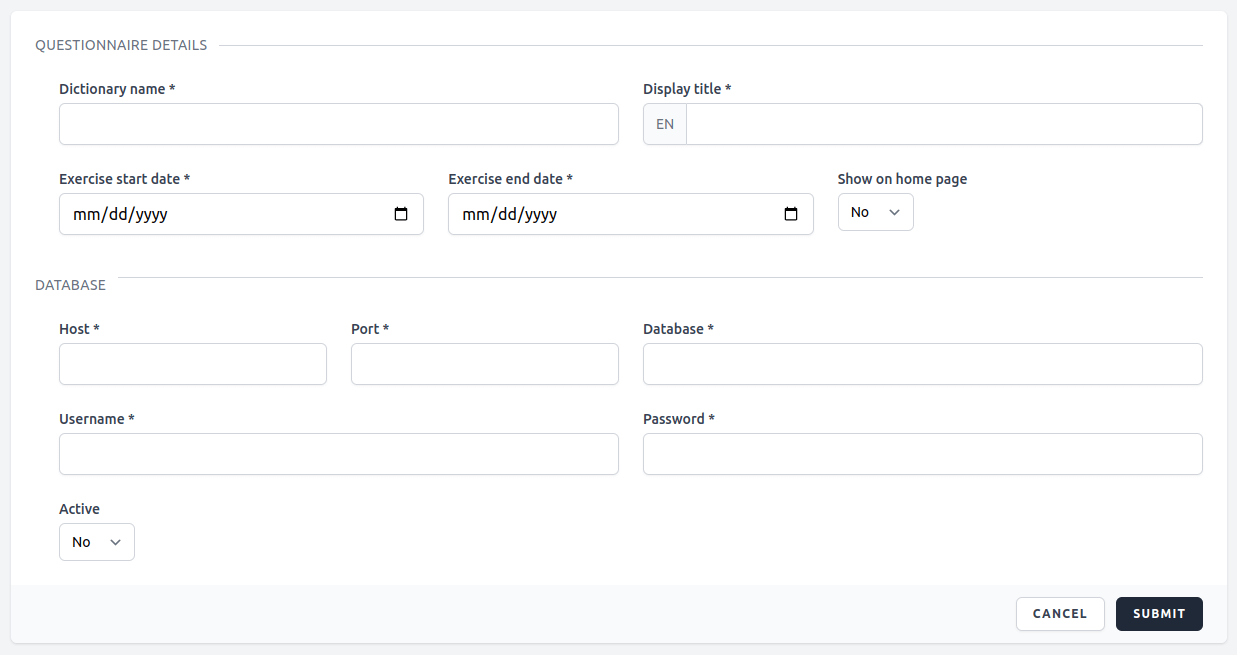
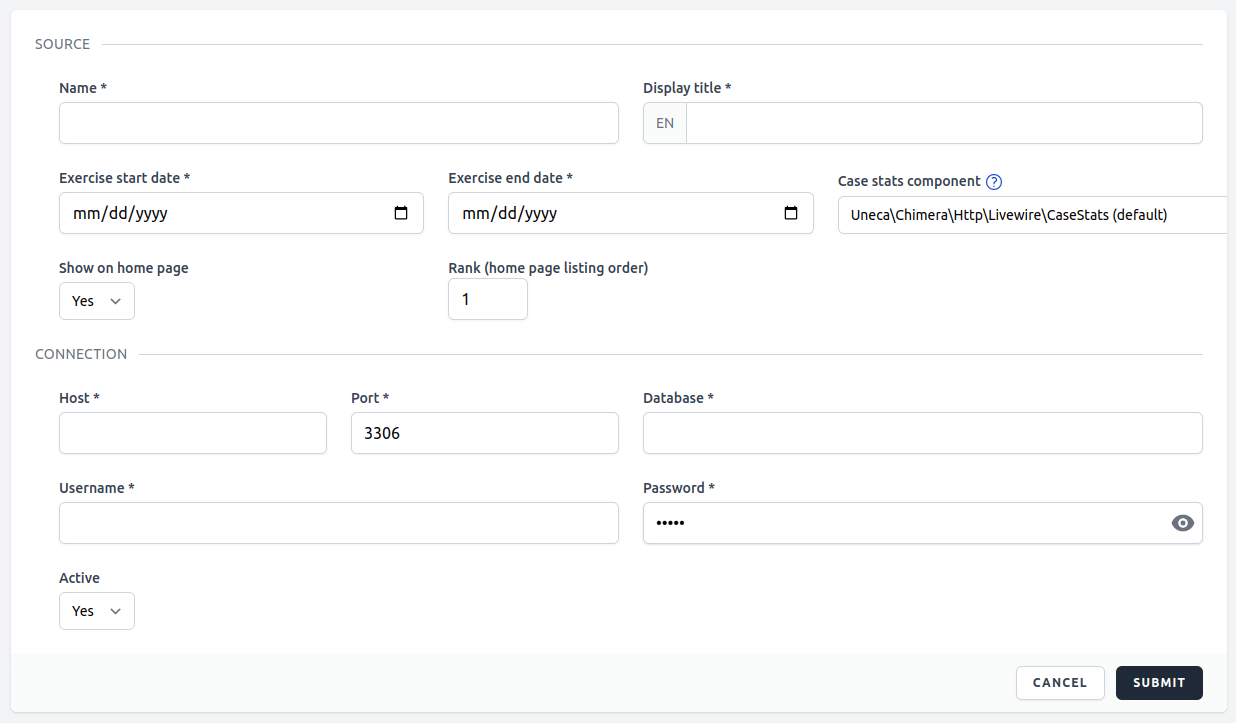
Updated to match 2.7.1

diff --git a/docs/developer/Building your dashboard/Overriding case stats.md b/docs/developer/Building your dashboard/Overriding case stats.md
@@ -4,36 +4,14 @@ slug: ../building-your-dashboard/overriding-case-stats
 ---
 
 # Overriding case stats
-Scorecards are meant to display very high level data that pertains to either an important indicator or a performance metric. They are helpful to management in decision making and problem solving.
+CaseStats are high level statistics about the number and type of cases/responses you have in your database. They can be classified as *completed, partial and duplicate*.
 
-## Make scorecard command
-The one and only way to create scorecards is by running the `chimera:make-scorecard` command.
+This classification is bound up with how responses are stored in CSPro and might not necessarily be the way you want to summarize the responses in your database. 
 
-Scorecards usually display just two things: title and value but can also include a delta display (to show percentage of change from a reference value) and a link button to jump to an indicator, if it exists.
+You can override this default, CSPro based, implementation and provide your own kind of CaseStats. To do so, just create a new Livewire component and make sure you include the words CaseStats in the name.
 
-![Scorecards](/img/developer/building-your-dashboard/scorecards.png)
+You then need to extend the existing CaseStats class and then override either just the getData() method, where you can implement your own counting strategy or also override the render() method to also provide your own blade view to render.
 
-## Implementing scorecards
-Obviously, you will have to write some code in your generated scorecard file so that it distils and returns a value you intend.
+Once you have implemented your new CaseStats component, it should become available for selection under the Source edit form for each source/questionnaire.
 
-You have a high degree of freedom on how you choose to code your scorecard as long as, at the end, you set the appropriate public class properties with their desired values.
-
-- $this->title
-
-    title is by default inherited from what you had provided when you created the scorecard. You can also edit this from the management menu.
-
-- $this->bgColor
-
-    the scorecard background color is dictated by the currently chosen theme but you are free to override and set your own desired color using HTML color constants or hex color values.
-
-- $this->diff
-
-    by default, this is set to 0 but you can set it to any integer (signed) value to depict the delta between the main value and some reference value.
-
-- $this->unit
-
-    by default, this is set to % and is shown as a unit for your delta (diff). You can override it to be any other unit or you can also set it to be an empty string.
-
-- $this->value
-
-    by default, this is set to the string value 'NA' but you are expected to set it to the value you want displayed on the scorecard. You will probably have to run some database queries to calculate that value.
+When overriding either of these two methods, please make sure you return the results in the expected format. You can refer to the existing CaseStats component for that.

diff --git a/docs/developer/Advanced topics/Caching.md b/docs/developer/Advanced topics/Caching.md
@@ -12,10 +12,21 @@ Caching is not enabled by default and to enable it, you must set CACHE_ENABLED t
 Once caching is enabled, every published indicator, scorecard, case stat and map indicator will be cached for a set amount of time that is determined by the CACHE_TTL_SECONDS setting in your .env file. The default value of the caching time is **one hour**.
 
 You will most likely want to use your own caching strategy that is appropriate to your data size and other needs. You will therefore need to schedule tasks to update these caches regularly. This is achieved by using the ```chimera:cache``` group of commands. You can run them manually as such but you should schedule them using Laravel's scheduled tasks. Data cached using any of the cache commands does not expire. It is cached *"forever"* as cache replacement strategy is relinquished to the developer and should be achieved through a well thought out scheduling of the cache commands.
+
+For details, please refer to the [Task Scheduling](https://laravel.com/docs/9.x/scheduling#scheduling-artisan-commands) section of the Laravel documentation.
+
+```php
+$schedule->command('chimera:cache --questionnaire=enumeration')->everySixHours();
+```
+
+Basically, you add the above type of code to the schedule() method of your ```App\Console\Kernel``` class file for each of your cache commands.
+
+
 ```
 php artisan chimera:cache-indicators
 php artisan chimera:cache-scorecards
 php artisan chimera:cache-mapindicators
+php artisan chimera:cache-casestats
 ```
 
 ### chimera:cache-indicators
@@ -59,14 +70,12 @@ The command has two options which you can include to control how caching happens
 - *questionnaire* : this option can be used to update the cache of scorecards that belong to that specific questionnaire. By default, scorecards across all questionnaires will be updated
 
 
-As it is not practical to update the cache manually on the command line, you will need to schedule the chimera:cache artisan command.
-For details, please refer to the [Task Scheduling](https://laravel.com/docs/9.x/scheduling#scheduling-artisan-commands) section of the Laravel documentation.
+### chimera:casestats
 
-Basically, you add the following type of code to the schedule() method of your ```App\Console\Kernel``` class file
+The command has one option which you can include to control how caching happens
 
-```php
-$schedule->command('chimera:cache --questionnaire=enumeration')->everySixHours();
-```
+- *questionnaire* : this option can be used to update the cache of CaseStats that belong to that specific questionnaire. By default, casestats across all questionnaires will be updated
+
 
 ## Cache clearing
 

diff --git a/docs/developer/Building your dashboard/Folder structure.md b/docs/developer/Building your dashboard/Folder structure.md
@@ -12,11 +12,13 @@ To begin with, please read the [Directory Structure](https://laravel.com/docs/st
 While there are various directories, that help organize your application, we shall mainly be concerned with a few of them.
 These will be the directories where your generated dashboard files (such as indicators, etc.) will go into.
 
-- <span className='text--danger text--light'>app/Http/Livewire</span> is the directory where all your indicator files will be stored. Under it, you can have them organized into various thematic or questionnaire based sub-directories.
+- <span className='text--danger text--light'>app/Http/Livewire</span> is the directory where all your indicator and scorecard files will be stored. Under it, you can have them organized into various thematic or questionnaire based sub-directories (this is achieved by including folders in the names when using the various make commands).
 
 - <span className='text--danger text--light'>app/IndicatorTemplates</span> is where your installed indicator templates will live. When you download indicator templates from our template library, they are stored somewhere in the storage directory and are copied here only when you use them for one of your indicators.
 
 - <span className='text--danger text--light'>app/Mail</span> holds all the Mailable classes which you can modify to affect the emails sent by the dashboard. The corresponding mail templates are stored in <span className='text--danger text--light'>resources/views/mail</span>
+
+- <span className='text--danger text--light'>app/MapIndicators</span> holds all the MapIndicator classes that are generated by the chimera:make-map-indicator command.
 
 - <span className='text--danger text--light'>app/Reports</span> is the directory where all your report class files will be stored. Under it, you can have them organized into various thematic or questionnaire based sub-directories. The actual (csv/excel) report outputs are stored under the <span className='text--danger text--light'>storage</span> directory.
 

diff --git a/docs/developer/Building your dashboard/Core configuration.md b/docs/developer/Building your dashboard/Core configuration.md
@@ -64,6 +64,10 @@ You have the option of importing the data from two file formats:
 
     ![Importing areas from shapefile](/img/developer/building-your-dashboard/importing-area-hierarchy-from-shapefile.png)
 
+:::caution
+Please make sure that the shapefile you are attempting to import has the EPSG:4326 - WGS 84 Coordinate Reference System (CRS).
+:::
+
 - **Spreadsheets (.csv)**
 
     You can also import your areas via a csv file but here you will not have the maps and therefore can not have map based indicators in you dashboard.
@@ -105,9 +109,9 @@ Just follow the instructions in the Laravel Livewire documentation [here](https:
 
 What we generally refer to as reference values are concepts such as 'expected values' and 'target values'. These are used for comparing your actual data against so that you have some frame of reference to better understand the data/indicator your are viewing.
 
-To import reference values, you will need to have the data in an Excel or CSV file and it needs to be at the lowest area hierarchy level (usually EA).
+To import reference values, you will need to have the data in a CSV file and it needs to be at the lowest area hierarchy level (usually EA).
 
-The file needs to have at least two columns. One for the code of your lowest area hierarchy and another for the value of the reference value you are importing. It is common to have multiple columns, each named by the reference value they represent, in the same spreadsheet.
+The file needs to have at least two columns. One for path (can be generated using the formula provided on the top of the form) of your lowest area hierarchy and another for the value of the reference value you are importing. It is common to have multiple columns, each named by the reference value they represent, in the same spreadsheet.
 
 ![Sample reference values CSV file](/img/developer/building-your-dashboard/reference-value-spreadsheet.png)
 

diff --git a/docs/developer/Migration guides/update command.md b/docs/developer/Migration guides/update command.md
@@ -1,0 +1,36 @@
+---
+sidebar_position: 1
+slug: ../migration-guides/update-command
+---
+
+# The update command
+
+The update command greatly aids in updating the version of Dashboard Starter Kit you are running.
+
+```
+php artisan chimera:update [options]
+```
+
+It has the following options, which you might use depending on what is recommended in the release notes for each update.
+
+- *chimera-config* - will re-publish the chimera.php config file to the config directory
+- migrations - will re-publish any new database migrations that might have been added to the kit since installation
+- packages - will install any new composer packages that might have been added to the kit since installation
+- jetstream-modifications - will re-publish customized Laravel Jetstream views and actions
+- buildables - will re-publish resources (js, css, public images, tailwind.config.js and vite.config.js)
+- stubs - will re-publish stubs used in the various chimera:make commands
+- other-configs - will re-publish app, auth, and jetstream config files to the config directory
+- npm - will update the application's package.json with required npm packages
+
+In the example below, all js, css and image files will be published and this might be necessary if an update has modified any Javascript, CSS or added any new public image files.
+
+```
+php artisan chimera:update --buildables
+```
+
+:::caution
+Please be aware that when you re-publish previously published resources, changes you might have made to those resources after installation will likely be overwritten. 
+Under normal circumstances, you will likely not have modified any of these resources but be aware that this might happen.
+
+For example, the --buildables option would overwrite the hero image on the landing page, if you have already replaced it with some other image.
+:::

diff --git a/docs/developer/Building your dashboard/Creatign map based indicators.md b/docs/developer/Building your dashboard/Creatign map based indicators.md
@@ -14,11 +14,17 @@ The one and only way to create map-indicators is by running the `chimera:make-ma
 ## Implementing map-indicators
 Obviously, you will have to write some code in your generated map-indicator file so that it queries and returns the data that needs to be present on the map.
 
-You need to implement the getData() method and make sure it returns a Collection. You need to have at least these three keys on your collection.
+You need to implement the getData() method and make sure it returns a Collection. You need to have at least these two keys on your collection.
 
 - area_code
 - value
+
+Furthermore, if you include the following two, additional functionality will be unlocked accordingly.
+
+- display_value
 - info
+
+The text contained in the *display_value* column will replace the one from value on the map tooltip. And if *info* is present, its contents will be rendered in an information box, on the bottom right of the map when the owning area is clicked.
 
 The area_code column/key is used to match the corresponding area on the map. The value column is what is displayed for each area when you hover over it and finally, the info column should should hold the text that
 is displayed (in an info box to the side) when its respective area is clicked on the map.
@@ -27,6 +33,7 @@ If for whatever reason, you need to use other names for these three columns, you
 
 ```php
 public string $valueField = 'value';
+public string $displayValueField = 'display_value';
 public string $areaCodeField = 'area_code';
 public string $infoTextField = 'info';
 ```

diff --git a/docs/developer/intro.md b/docs/developer/intro.md
@@ -4,7 +4,7 @@ sidebar_position: 1
 
 # Introduction
 
-Dashboard Starter Kit is a beautifully designed Laravel package that provides a good starting point for your next census or survey management dashboard. In addition to the basics such as application's login, registration, email verification, two-factor authentication, session management, etc, it provides
+Dashboard Starter Kit is a beautifully designed Laravel package that provides a solid starting point for your next census or survey management dashboard. In addition to the basics such as application's login, registration, email verification, two-factor authentication, session management, etc, it provides
 reactive charts, area based filters, map based indicators and so much more.
 
 It is designed using Tailwind CSS and heavily utilizes Laravel Livewire.

diff --git a/docs/developer/Getting started/Requirements.md b/docs/developer/Getting started/Requirements.md
@@ -9,7 +9,7 @@ As the Dashboard Starter Kit is built on top of the latest Laravel version, it r
 Mainly, make sure your environment meets the following minimums:
 
 - [Php 8.1](https://www.digitalocean.com/community/tutorials/how-to-install-php-8-1-and-set-up-a-local-development-environment-on-ubuntu-22-04)
-- All php extensions [required by Laravel](https://laravel.com/docs/9.x/deployment#server-requirements)
+- All php extensions [required by Laravel](https://laravel.com/docs/deployment#server-requirements)
 - [Redis](https://redis.io/docs/getting-started/installation/)
 - [PostgreSQL (>= 12)](https://www.postgresql.org/download/)
 - [PostGIS](https://postgis.net/install/)

diff --git a/docs/developer/Getting started/Environment setup.md b/docs/developer/Getting started/Environment setup.md
@@ -12,10 +12,10 @@ We strongly recommend that you develop and deploy the dashboard on a computer ru
 And as a web server, Nginx.
 
 ## Dependencies
-- Php 8.0 (8.1 preferred)
+- Php 8.1
 - [Composer](https://getcomposer.org/)
 - Various php extensions such as,
-     - BCMath PHP Extension
+    - BCMath PHP Extension
     - Ctype PHP Extension
     - cURL PHP Extension
     - DOM PHP Extension
@@ -25,6 +25,7 @@ And as a web server, Nginx.
     - OpenSSL PHP Extension
     - PCRE PHP Extension
     - PDO PHP Extension
+    - Redis PHP Extension
     - Tokenizer PHP Extension
     - XML PHP Extension
     - Internationalization extension (Intl) 

diff --git a/docs/developer/Core concepts.md b/docs/developer/Core concepts.md
@@ -25,7 +25,7 @@ Indicators usually are data elements that represent statistical data for a speci
 
 They also include metadata for the indicator such as a brief description, title and and extended text that is meant to aid in understanding what is depicted by the indicator.
 
-![Indicator](https://via.placeholder.com/728x90.png?text=Indicator)
+![Indicators](/img/developer/indicators.png)
 
 ## Pages
 A page is simply a grouping of indicators into a single web page that is accessed via the top navigation bar. The same indicator can be present in multiple pages and users can be granted access to pages or even to individual indicators.
